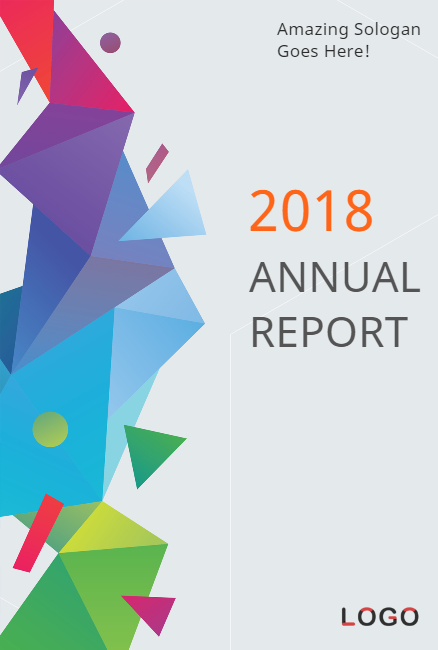
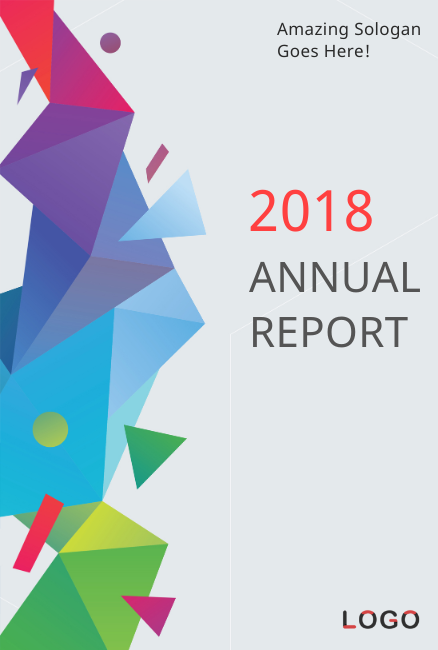
version go to add project winter 2018

diff --git a/src/js/action.js b/src/js/action.js
@@ -217,7 +217,7 @@ Goes Here!`,
                 textComp.add(`2018`,
                     {position: {x: 248,
                         y: 181},
-                    styles: {fill: '#ff6518',
+                    styles: {fill: '#ff4040',
                         fontSize: 57,
                         fontFamily: 'Noto Sans'}
                     }).then(() => {});
@@ -232,6 +232,44 @@ REPORT`,
                 }).then(() => {});
                 this._graphics.addImageObjectZoom('http://localhost:8080/src/image/logo.png',
                     619, 381, 0.6, 0.6);
+            },
+            setElementTemplate2: () => {
+                const textComp = this._graphics.getComponent('TEXT');
+                // console.log('ko');
+                // const sologan = `Amazing Sologan
+                // Goes Here!`;
+                textComp.add(`Amazing Sologan
+Goes Here!`,
+                {position: {x: 19,
+                    y: 45},
+                styles: {fill: '#ffffff',
+                    fontSize: 17,
+                    fontFamily: 'Noto Sans'}
+                }).then(() => {});
+
+                textComp.add(`2018`,
+                    {position: {x: 174,
+                        y: 266},
+                    styles: {fill: '#ff4040',
+                        fontSize: 57,
+                        fontFamily: 'Noto Sans'}
+                    }).then(() => {});
+
+                textComp.add(`ANNUAL
+REPORT`,
+                {position: {x: 155,
+                    y: 333},
+                styles: {fill: '#545454',
+                    fontSize: 42,
+                    fontFamily: 'Noto Sans'}
+                }).then(() => {});
+                textComp.add(`LOGO`,
+                    {position: {x: 34,
+                        y: 598},
+                    styles: {fill: '#ffffff',
+                        fontSize: 22,
+                        fontFamily: 'Noto Sans'}
+                    }).then(() => {});
             }
         }, this._commonAction());
     },

diff --git a/src/js/ui/mask.js b/src/js/ui/mask.js
@@ -1,5 +1,5 @@
 import Submenu from './submenuBase';
-import util from '../util';
+// import util from '../util';
 import templateHtml from './template/submenu/mask';
 /**
  * Mask ui class
@@ -54,6 +54,7 @@ class Mask extends Submenu {
             actions.main.loadImageTemplate('http://localhost:8080/src/image/background2.jpg');
             this.removeAllBorder();
             this.setBorder('#background2');
+            actions.main.setElementTemplate2();
         });
         this._els.background3.addEventListener('click', () => {
             actions.main.loadImageTemplate('http://localhost:8080/src/image/background3.jpg');
@@ -93,20 +94,21 @@ class Mask extends Submenu {
      * @private
      */
     _loadMaskFile(event) {
-        let imgUrl;
-
-        if (!util.isSupportFileApi()) {
-            alert('This browser does not support file-api');
-        }
-
-        const [file] = event.target.files;
-
-        if (file) {
-            imgUrl = URL.createObjectURL(file);
-            // this.actions.setTypeIconOrBackground(1);
-            this.actions.loadImageFromURL(imgUrl, file);
-            // this._els.applyButton.classList.add('active');
-        }
+        this.bigActions.main.load(event.target.files[0]);
+        // let imgUrl;
+        //
+        // if (!util.isSupportFileApi()) {
+        //     alert('This browser does not support file-api');
+        // }
+        //
+        // const [file] = event.target.files;
+        //
+        // if (file) {
+        //     imgUrl = URL.createObjectURL(file);
+        //     // this.actions.setTypeIconOrBackground(1);
+        //     this.actions.loadImageFromURL(imgUrl, file);
+        //     // this._els.applyButton.classList.add('active');
+        // }
     }
 }
 

diff --git a/src/js/ui/template/submenu/mask.js b/src/js/ui/template/submenu/mask.js
@@ -1,10 +1,12 @@
 export default () => (`
     <ul class="tui-image-editor-submenu-item" style="overflow: auto; height: 100%" id="change-scroll">
         <li>
-            <img id="background1" src="../../../../src/image/background.jpg" alt="" style="width: 150px; padding: 3px">
+            <img id="background1" src="../../../../src/image/background-demo.png"
+            alt="" style="width: 150px; padding: 3px">
         </li>
         <li>
-            <img id="background2" src="../../../../src/image/background2.jpg" alt="" style="width: 150px; padding: 3px">
+            <img id="background2" src="../../../../src/image/background2-demo.png"
+            alt="" style="width: 150px; padding: 3px">
         </li>
         <li>
             <img id="background3" src="../../../../src/image/background3.jpg" alt="" style="width: 150px; padding: 3px">
@@ -24,7 +26,7 @@ export default () => (`
                         <use xlink:href="../dist/svg/icon-c.svg#icon-c-ic-mask-load" class="active"/>
                     </svg>
                 </div>
-                <label> Load Mask Image </label>
+                <label> Load Image </label>
             </div>
         </li>
     </ul>

diff --git a/src/js/ui.js b/src/js/ui.js
@@ -403,7 +403,8 @@ class Ui {
     _addLoadEvent() {
         snippet.forEach(this._els.load, element => {
             element.addEventListener('change', event => {
-                console.log(event);
+                // console.log(event);
+                this._actions.main.load(event.target.files[0]);
                 // this._actions.main.loadImageTemplate('http://localhost:8080/src/image/background.jpg');
             });
         });
